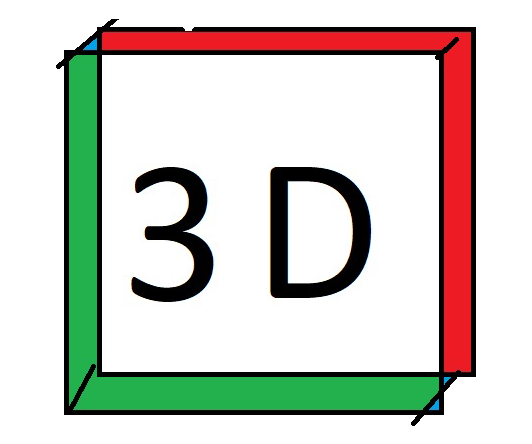
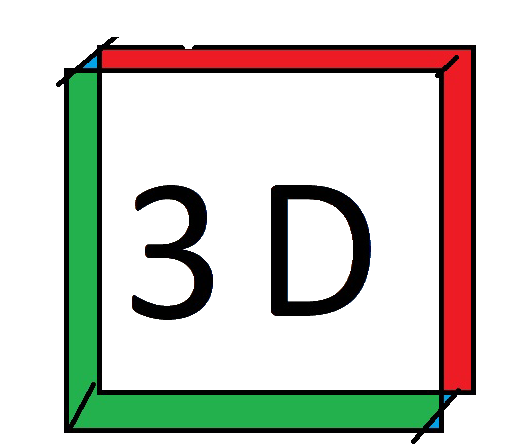
bg_image fix

diff --git a/level.py b/level.py
@@ -115,8 +115,8 @@ class Level():
 
         #Background image
         bg_img = pygame.image.load("media/bgrImage.png")
-        bg_img = pygame.transform.scale(bg_img,(200,300))
-        self.screen.blit(bg_img, (400,640))
+        bg_img = pygame.transform.scale(bg_img,(200,200))
+        self.screen.blit(bg_img, (WIDTH / 2 - 100, HEIGHT / 2 - 100))
 
         self.player_round = self.get_round()
         pygame.draw.aaline(self.screen, OBJ_COLOR,
